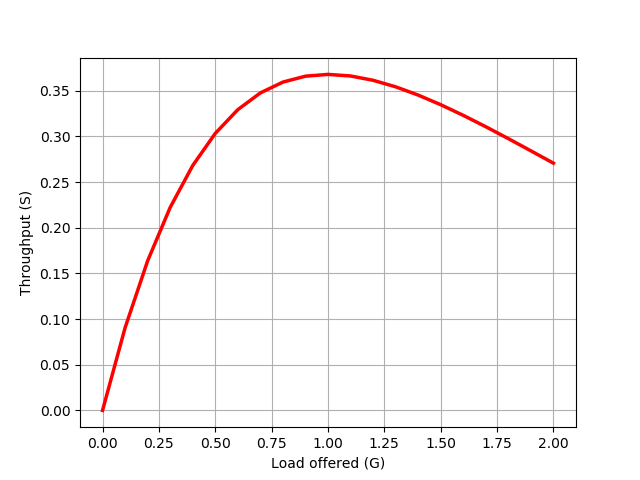
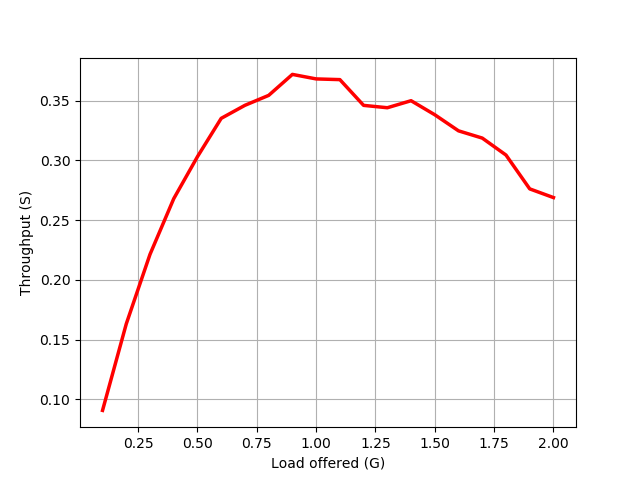
updated code

diff --git a/Slotted Aloha/simulation.py b/Slotted Aloha/simulation.py
@@ -1,11 +1,45 @@
 import pandas as pd
 import numpy as np
 import matplotlib.pyplot as plt
+import time
+import random
 
-def slotted_aloha_throughput(G):
+
+Simulation_duration = 10000
+
+def next_pkt(load):
+    return (-1/load)*np.log(random.random())
+
+def slotted_aloha_throughput_theoretical(G):
     return G*np.exp(-G)    
 
-def pure_aloha_sim(data):
+def slotted_aloha_throughput(G):
+    time = 0
+    pkt = []
+    for i in range(0,Simulation_duration):
+        time += next_pkt(G)
+        pkt.append(np.ceil(time))
+
+
+    
+    success = 0
+    for x in range(1,len(pkt)-1):
+        if (pkt[x] != pkt[x-1]  and pkt[x+1] != pkt[x]):
+            success += 1
+
+    
+
+    return float(success)/len(pkt) * G
+
+def slotted_aloha_sim(data):
+    data['Throughput Theoretical'] = data['Avg Load'].apply(slotted_aloha_throughput_theoretical)
+    plt.plot(data['Avg Load'],data['Throughput Theoretical'],marker ='',color = 'red',linewidth='2.5')
+    plt.xlabel("Load offered (G)")
+    plt.ylabel("Throughput (S)")
+    plt.grid(True)
+    plt.savefig('Slotted_Aloha_Theoretical.png')
+    plt.show() 
+
     data['Throughput'] = data['Avg Load'].apply(slotted_aloha_throughput)
     plt.plot(data['Avg Load'],data['Throughput'],marker ='',color = 'red',linewidth='2.5')
     plt.xlabel("Load offered (G)")
@@ -17,10 +51,11 @@ def pure_aloha_sim(data):
 
 
 
+
 if __name__ == "__main__":
-    load = np.arange(0.0,2.1,0.1)
+    load = np.arange(0.1,2.1,0.1)
 
     data = { "Avg Load" : load}
     df = pd.DataFrame(data)
 
-    pure_aloha_sim(df)
+    slotted_aloha_sim(df)

diff --git a/Pure Aloha/simulation.py b/Pure Aloha/simulation.py
@@ -1,11 +1,45 @@
 import pandas as pd
 import numpy as np
 import matplotlib.pyplot as plt
+import time
+import random
 
-def pure_aloha_throughput(G):
+
+Simulation_duration = 10000
+
+def next_pkt(load):
+    return (-1/load)*np.log(random.random())
+
+def pure_aloha_throughput_theoretical(G):
     return G*np.exp(-2*G)    
 
+def pure_aloha_throughput(G):
+    time = 0
+    pkt = []
+    for i in range(0,Simulation_duration):
+        time += next_pkt(G)
+        pkt.append(time)
+
+
+    
+    success = 0
+    for i in range(1,len(pkt)-1):
+        if((pkt[i] - pkt[i-1]) >1 and (pkt[i+1] - pkt[i])>1):
+            success += 1
+
+    
+
+    return float(success)/len(pkt) * G
+
 def pure_aloha_sim(data):
+    data['Throughput Theoretical'] = data['Avg Load'].apply(pure_aloha_throughput_theoretical)
+    plt.plot(data['Avg Load'],data['Throughput Theoretical'],marker ='',color = 'red',linewidth='2.5')
+    plt.xlabel("Load offered (G)")
+    plt.ylabel("Throughput (S)")
+    plt.grid(True)
+    plt.savefig('Pure_Aloha_Theoretical.png')
+    plt.show() 
+
     data['Throughput'] = data['Avg Load'].apply(pure_aloha_throughput)
     plt.plot(data['Avg Load'],data['Throughput'],marker ='',color = 'red',linewidth='2.5')
     plt.xlabel("Load offered (G)")
@@ -17,8 +51,9 @@ def pure_aloha_sim(data):
 
 
 
+
 if __name__ == "__main__":
-    load = np.arange(0.0,2.1,0.1)
+    load = np.arange(0.1,2.1,0.1)
 
     data = { "Avg Load" : load}
     df = pd.DataFrame(data)
